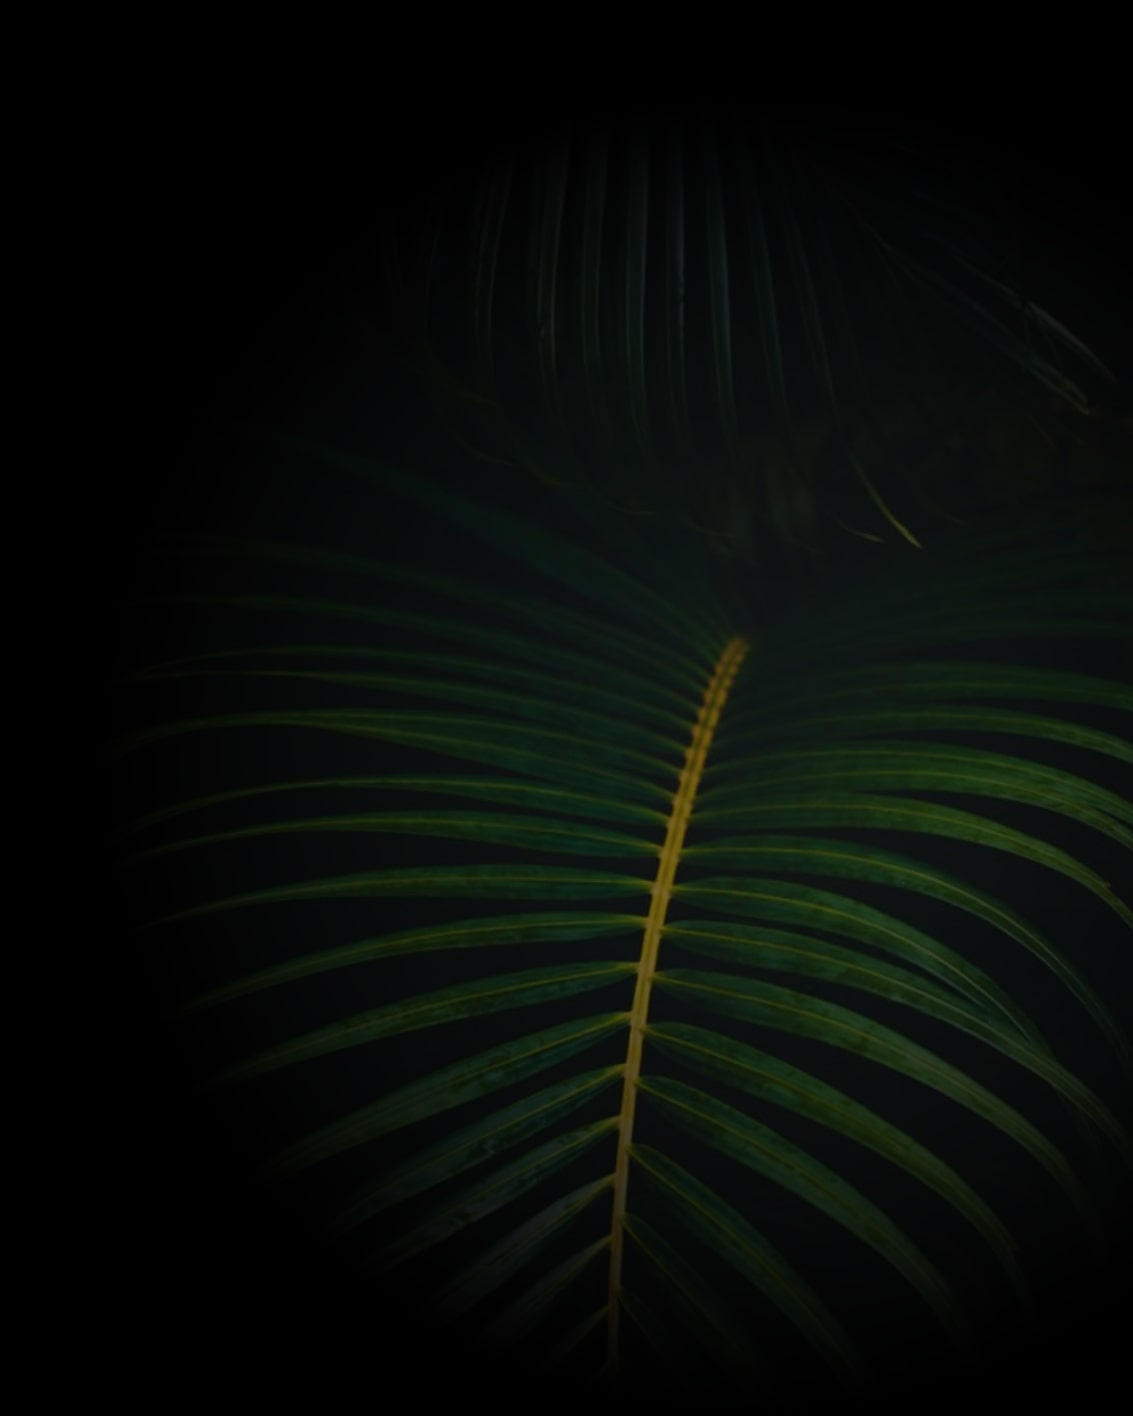
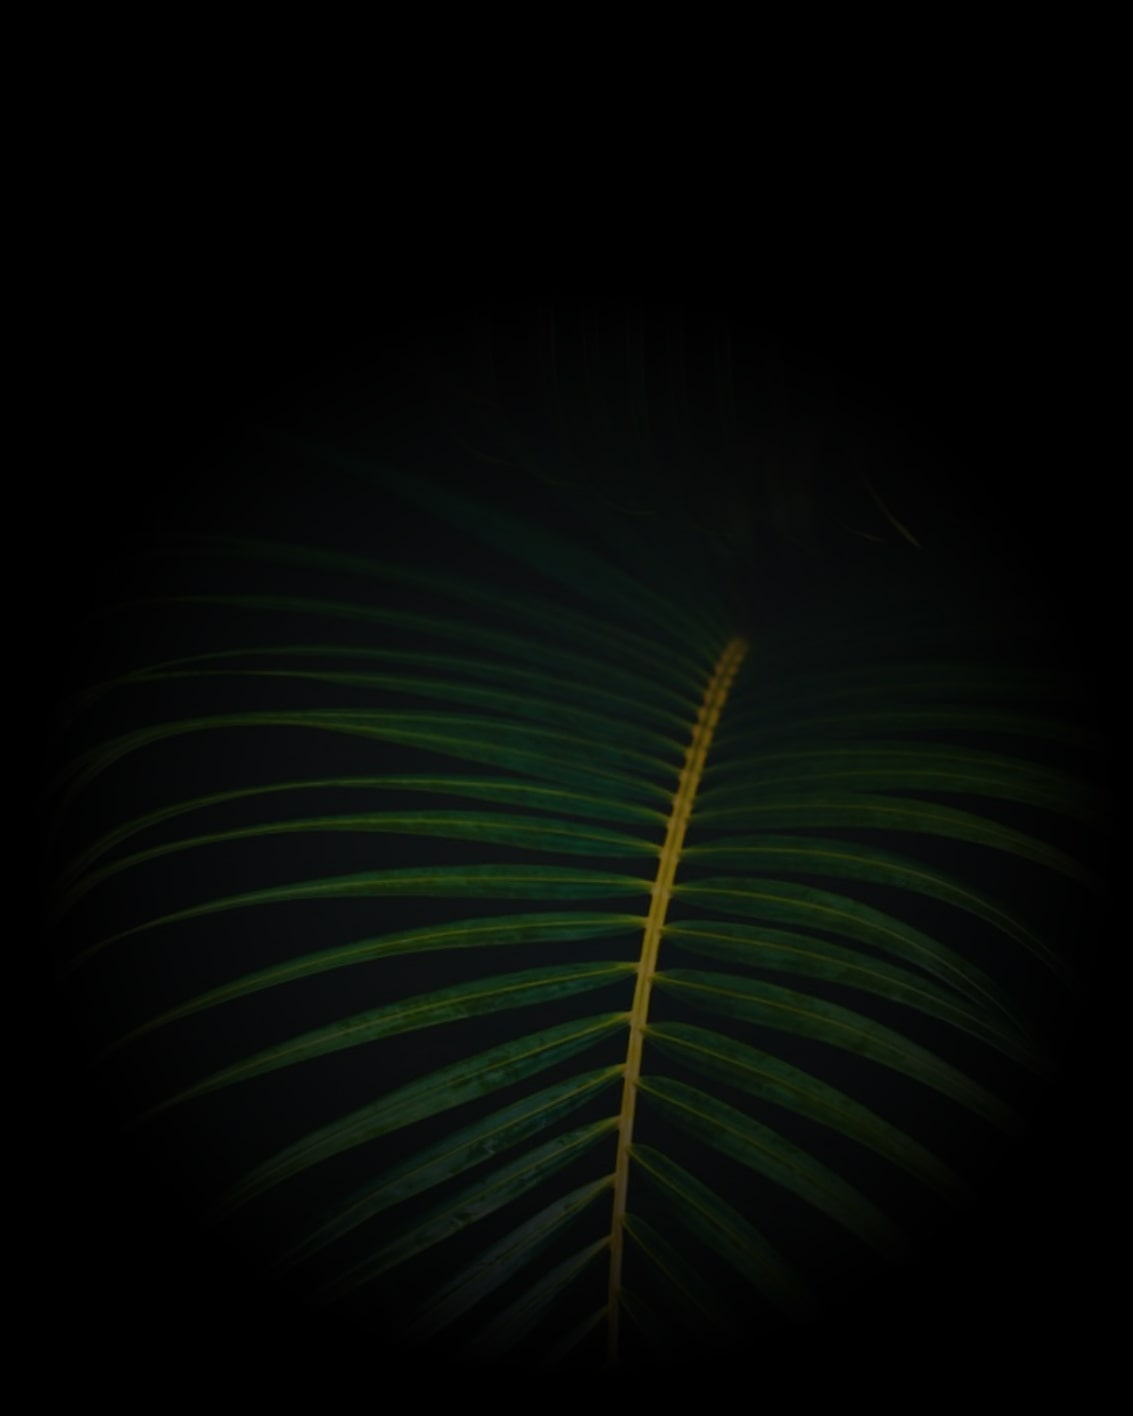
More bg attempts

diff --git a/src/app/layout.tsx b/src/app/layout.tsx
@@ -1,8 +1,9 @@
-import { Footer } from "@/components/Footer";
-import { Navbar } from "@/components/Navbar";
 import type { Metadata } from "next";
 import localFont from "next/font/local";
 import "./globals.css";
+import { Footer } from "@/components/Footer";
+import { Navbar } from "@/components/Navbar";
+import { BackgroundLeaves } from "@/components/BackgroundLeaves";
 const geistSans = localFont({
   src: "./fonts/GeistVF.woff",
   variable: "--font-geist-sans",
@@ -27,11 +28,21 @@ export default function RootLayout({
   return (
     <html lang="en">
       <body
-        className={`${geistSans.variable} ${geistMono.variable} antialiased relative`}
+        className={`${geistSans.variable} ${geistMono.variable} antialiased relative h-full w-full`}
       >
-        <Navbar />
-        {children}
-        <Footer />
+        <div className="w-full h-full relative">
+          <BackgroundLeaves
+            imgSrc="/dark-leaves-1.jpg"
+            className="hidden sm:block bottom-[30%] right-0  w-1/2 h-1/2"
+          />
+          <BackgroundLeaves
+            imgSrc="/dark-leaves-2.jpg"
+            className="hidden sm:block bottom-[20%] -left-[10%] w-1/2 h-1/2 rotate-270"
+          />
+          <Navbar />
+          {children}
+          <Footer />
+        </div>
       </body>
     </html>
   );

diff --git a/src/components/BackgroundLeaves.tsx b/src/components/BackgroundLeaves.tsx
@@ -9,16 +9,12 @@ function BackgroundLeaves({
 }) {
   return (
     <div
-      className={cn(
-        "absolute inset-0 w-full h-full mix-blend-lighten",
-        className
-      )}
+      className={cn("absolute mix-blend-lighten", className)}
       style={{
         backgroundImage: `url(${imgSrc})`,
-        backgroundSize: "cover",
+        backgroundSize: "contain",
         backgroundPosition: "center",
-        maskImage:
-          "radial-gradient(circle, rgba(0, 0, 0, 0.5) 0%, rgba(0, 0, 0, 0.5) 20%, transparent 60%, transparent 100%);",
+        backgroundRepeat: "no-repeat",
       }}
     />
   );
